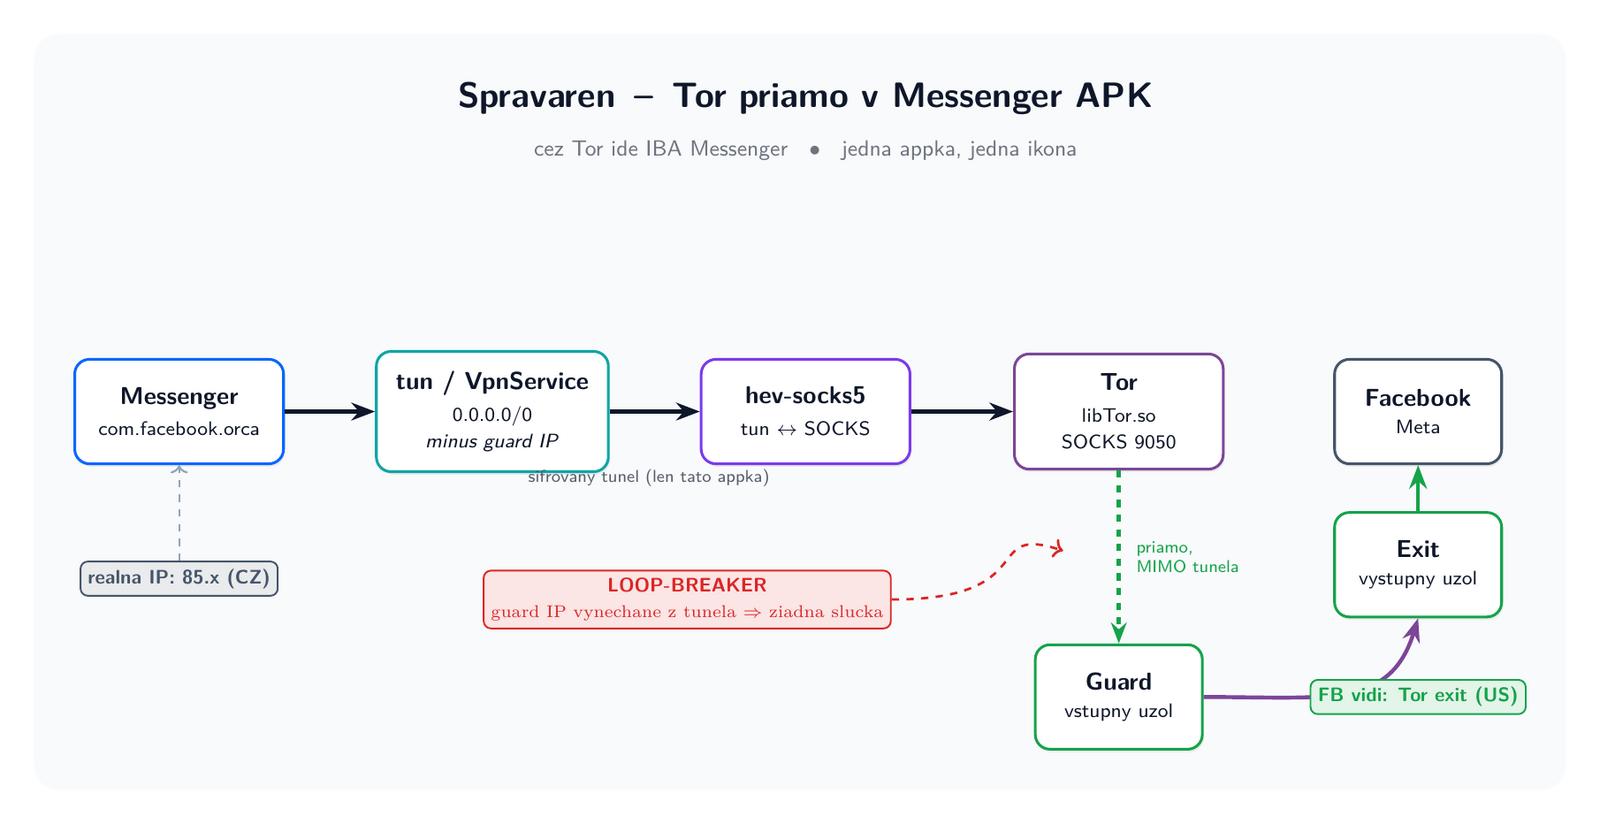
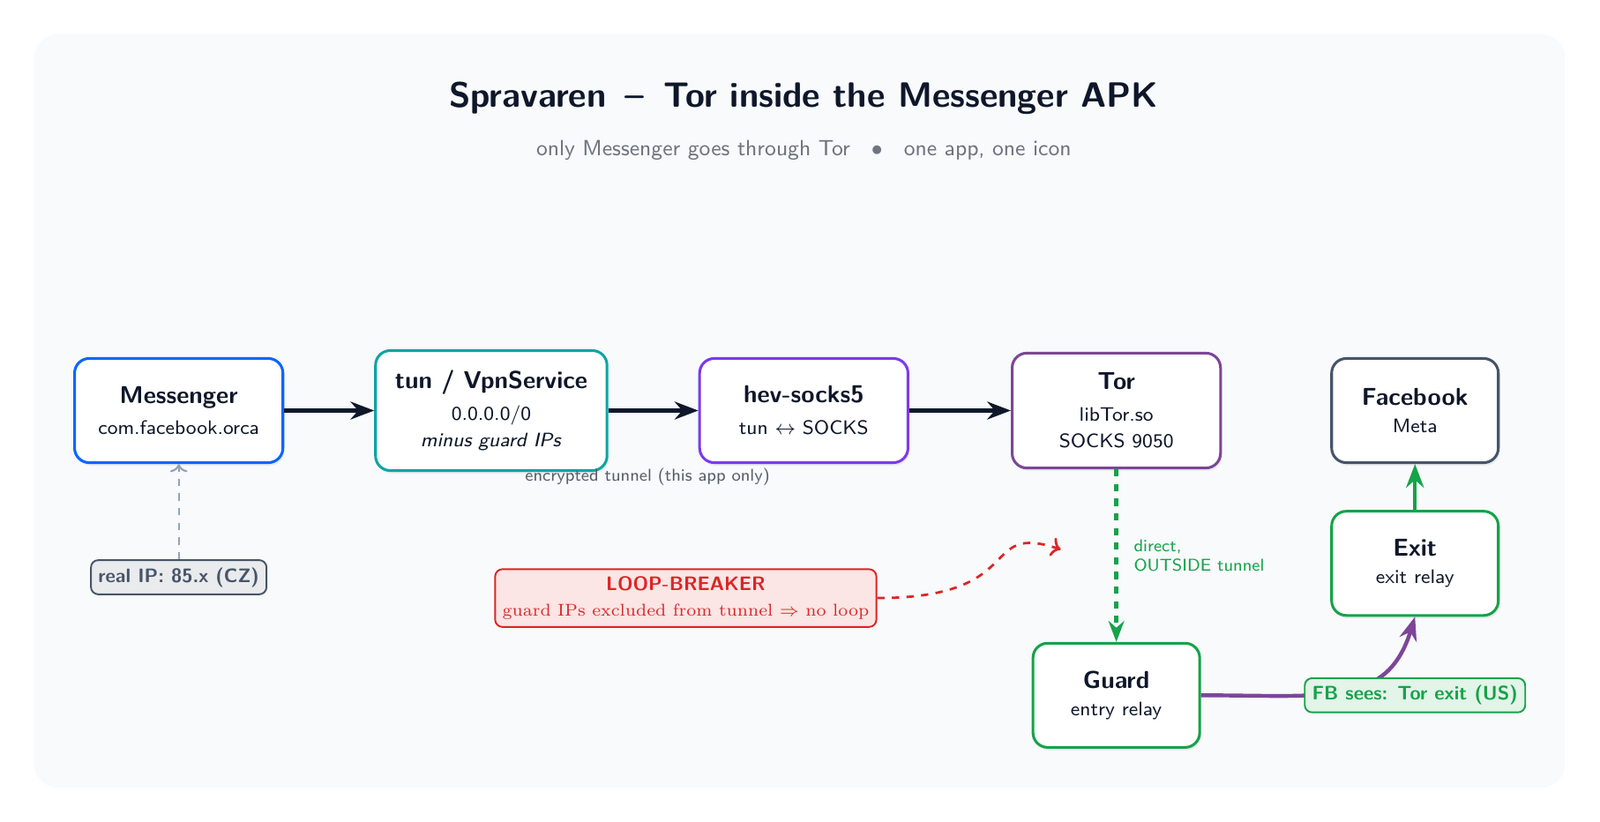
Unify docs into main README (English) + English TikZ diagrams
- Rewrite top-level README.md in English: Part 1 (Tor inside the APK, with
  architecture + battery diagrams, loop-breaker, kill-switch, verified table)
  and Part 2 (slim cut workflow). Nicer layout, tables.
- Translate TikZ diagrams (architecture, lifecycle) to English, recompile PNGs.
- Remove now-redundant tor-inject/README.md.

diff --git a/tor-inject/docs/architecture.tex b/tor-inject/docs/architecture.tex
@@ -30,42 +30,42 @@
 
 % --- title ---
 \node[font=\sffamily\Large\bfseries, text=cInk] (title) at (9,4.5)
-  {Spravaren\, --\, Tor priamo v Messenger APK};
+  {Spravaren\, --\, Tor inside the Messenger APK};
 \node[font=\sffamily\small, text=cInk!60] at (9,3.75)
-  {cez Tor ide IBA Messenger \; $\bullet$ \; jedna appka, jedna ikona};
+  {only Messenger goes through Tor \; $\bullet$ \; one app, one icon};
 
 % --- main pipeline nodes ---
 \node[box=cMsg]  (msg) at (0,0)   {\textbf{Messenger}\\[1pt]\footnotesize com.facebook.orca};
-\node[box=cTun]  (tun) at (4.5,0) {\textbf{tun / VpnService}\\[1pt]\footnotesize 0.0.0.0/0 \\[-1pt]\footnotesize \emph{minus guard IP}};
+\node[box=cTun]  (tun) at (4.5,0) {\textbf{tun / VpnService}\\[1pt]\footnotesize 0.0.0.0/0 \\[-1pt]\footnotesize \emph{minus guard IPs}};
 \node[box=cHev]  (hev) at (9.0,0) {\textbf{hev-socks5}\\[1pt]\footnotesize tun $\leftrightarrow$ SOCKS};
 \node[box=cTor]  (tor) at (13.5,0){\textbf{Tor}\\[1pt]\footnotesize libTor.so \\[-1pt]\footnotesize SOCKS 9050};
 
-\node[box=cRelay, minimum width=24mm] (guard) at (13.5,-4.1) {\textbf{Guard}\\[-1pt]\footnotesize vstupny uzol};
-\node[box=cRelay, minimum width=24mm] (exit)  at (17.8,-2.2) {\textbf{Exit}\\[-1pt]\footnotesize vystupny uzol};
+\node[box=cRelay, minimum width=24mm] (guard) at (13.5,-4.1) {\textbf{Guard}\\[-1pt]\footnotesize entry relay};
+\node[box=cRelay, minimum width=24mm] (exit)  at (17.8,-2.2) {\textbf{Exit}\\[-1pt]\footnotesize exit relay};
 \node[box=cFb,   minimum width=24mm] (fb)    at (17.8,0)    {\textbf{Facebook}\\[-1pt]\footnotesize Meta};
 
-% --- forward flow (appka -> tunel -> Tor) ---
+% --- forward flow (app -> tunnel -> Tor) ---
 \draw[flow] (msg) -- (tun);
 \draw[flow] (tun) -- (hev);
 \draw[flow] (hev) -- (tor);
 
-% --- Tor -> guard: BYPASS tunela (guard IP vynechane) = loop-breaker ---
+% --- Tor -> guard: BYPASS the tunnel (guard IPs excluded) = loop-breaker ---
 \draw[back, line width=1.7pt] (tor.south) -- (guard.north)
-  node[midway, right=3pt, lbl, text=cRelay, align=left]{priamo,\\MIMO tunela};
+  node[midway, right=3pt, lbl, text=cRelay, align=left]{direct,\\OUTSIDE tunnel};
 \draw[flow, draw=cTor] (guard.east) .. controls +(1.8,0) and +(-0.4,-1.3) .. (exit.south);
 \draw[flow, draw=cRelay] (exit) -- (fb);
 
 % --- flow label under tunnel ---
-\node[lbl] at (6.75,-0.95) {sifrovany tunel (len tato appka)};
+\node[lbl] at (6.75,-0.95) {encrypted tunnel (this app only)};
 
 % --- loop-breaker callout ---
 \node[chip=cDanger, align=center] (lb) at (7.3,-2.7)
-  {LOOP-BREAKER\\[1pt]\normalfont\scriptsize guard IP vynechane z tunela $\Rightarrow$ ziadna slucka};
+  {LOOP-BREAKER\\[1pt]\normalfont\scriptsize guard IPs excluded from tunnel $\Rightarrow$ no loop};
 \draw[->, cDanger, line width=1pt, dashed] (lb.east) .. controls +(2.2,0) and +(-1.2,0.4) .. (12.7,-2.0);
 
 % --- IP proof chips ---
-\node[chip=cFb]   (realip) at (0,-2.4) {realna IP: 85.x (CZ)};
-\node[chip=cRelay](torip)  at (17.8,-4.1){FB vidi: Tor exit (US)};
+\node[chip=cFb]   (realip) at (0,-2.4) {real IP: 85.x (CZ)};
+\node[chip=cRelay](torip)  at (17.8,-4.1){FB sees: Tor exit (US)};
 \draw[->, cLine, line width=0.8pt, dashed] (realip) -- (msg);
 
 \begin{scope}[on background layer]

diff --git a/tor-inject/docs/lifecycle.tex b/tor-inject/docs/lifecycle.tex
@@ -15,7 +15,7 @@
 \begin{tikzpicture}[
   font=\sffamily,
   state/.style={rounded corners=8pt, draw=#1, line width=1.2pt, fill=cCard, text=cInk,
-                align=center, inner sep=10pt, minimum width=46mm, minimum height=24mm,
+                align=center, inner sep=10pt, minimum width=48mm, minimum height=24mm,
                 drop shadow={shadow xshift=0.6pt, shadow yshift=-1.2pt, opacity=0.12}},
   arr/.style={-{Stealth[length=3.2mm]}, line width=1.5pt, draw=cInk},
   pill/.style={rounded corners=10pt, fill=#1!14, draw=#1, line width=0.8pt, text=#1,
@@ -24,25 +24,25 @@
 ]
 
 \node[font=\sffamily\Large\bfseries, text=cInk] (t) at (5.5,3.2)
-  {Tor bezi LEN ked treba \; --\; setrenie baterie};
+  {Tor runs only when needed \; --\; battery saving};
 
 % states
 \node[state=cOn]  (on)  at (0,0)
-  {\textbf{\textcolor{cMsg}{Messenger OTVORENY}}\\[3pt]
-   \textcolor{cOn}{\textbf{Tor ON}} $\bullet$ VPN aktivna\\[1pt]
-   \footnotesize traffic ide cez Tor};
+  {\textbf{\textcolor{cMsg}{Messenger OPEN}}\\[3pt]
+   \textcolor{cOn}{\textbf{Tor ON}} $\bullet$ VPN active\\[1pt]
+   \footnotesize traffic via Tor};
 \node[state=cOff] (off) at (11,0)
-  {\textbf{Messenger ZAVRETY}\\[3pt]
-   \textcolor{cOff}{\textbf{Tor OFF}} $\bullet$ ziadna VPN\\[1pt]
-   \footnotesize 0 mA na pozadi};
+  {\textbf{Messenger CLOSED}\\[3pt]
+   \textcolor{cOff}{\textbf{Tor OFF}} $\bullet$ no VPN\\[1pt]
+   \footnotesize 0 mA in background};
 
 % transitions
-\draw[arr] ($(on.east)+(0,0.5)$) -- node[above, note]{zavriet\\ + 25 s odklad} ($(off.west)+(0,0.5)$);
-\draw[arr] ($(off.west)-(0,0.5)$) -- node[below, note]{otvorit Messenger} ($(on.east)-(0,0.5)$);
+\draw[arr] ($(on.east)+(0,0.5)$) -- node[above, note]{close\\ + 25 s delay} ($(off.west)+(0,0.5)$);
+\draw[arr] ($(off.west)-(0,0.5)$) -- node[below, note]{open Messenger} ($(on.east)-(0,0.5)$);
 
 % chips
 \node[pill=cOn]    at (0,-2.4) {Tor idle = 0\% CPU, 94 MB};
-\node[pill=cOff]   at (11,-2.4){po zavreti: ziadny kluc VPN};
+\node[pill=cOff]   at (11,-2.4){after close: no VPN key};
 
 \begin{scope}[on background layer]
   \node[fill=cBg, rounded corners=10pt, fit=(t)(on)(off), inner sep=16pt] {};

diff --git a/README.md b/README.md
@@ -1,76 +1,183 @@
-# messenger-slim
+<div align="center">
 
-Minimal, **local-only** workflow for experimenting with a slimmed Messenger build from your own legally obtained APK.
+# 🧅 messenger-slim · Spravaren
 
-> ⚠ This repository does **not** include Facebook/Meta binaries.
-> - Do not commit APKs, decompiled sources, keys, or proprietary assets.
-> - Use only your own APK copy for local experimentation.
+**A slimmed, privacy-hardened Messenger build from your own legally obtained APK —
+with Tor baked directly into the app.**
 
-## Target version
+Only Messenger goes through Tor. One app, one icon. No Orbot.
 
-- Messenger: `550.0.0.45.63`
-- Platform: Windows (PowerShell)
+</div>
 
-## What this repo contains
+> ⚠ This repository contains **no** Facebook/Meta binaries.
+> Do not commit APKs, decompiled sources, keys, or proprietary assets.
+> Use only your own legally obtained APK copy for local experimentation, on your own device.
 
-- `scripts/prepare-workspace.ps1` – creates local working folders and checks basic tools.
-- `scripts/decompile.ps1` – decompiles your local APK with apktool.
-- `scripts/rebuild-sign.ps1` – rebuilds + signs an APK (debug key by default).
-- `scripts/apply-ai-cuts.ps1` – applies current AI entrypoint cut patch set to local smali.
-- `scripts/apply-nonai-cuts.ps1` – applies non-AI feature cut patch set (Reels/Marketplace/Stories/search extras).
-- `scripts/apply-battery-cuts.ps1` – applies explicit no-op patches for selected non-core background receivers/services.
-- `scripts/apply-chatonly-extreme.ps1` – applies strict chat-only cuts (extra UI entrypoints + non-core background handlers).
-- `config/features-to-disable.json` – your patch intent checklist (Stories, Reels, AI, etc.).
+---
 
-## Prerequisites (install locally)
+## What's inside
 
-- Java 17+
-- `apktool` (or place `apktool.bat` / `apktool.jar` into `tools/`)
-- Android build-tools (`zipalign`, `apksigner`)
+1. **[`tor-inject/`](tor-inject/) — Tor inside the Messenger APK.** Injects a Tor +
+   SOCKS tunnel straight into `com.facebook.orca` so the real Messenger routes itself
+   through Tor. Facebook sees a Tor exit, not your IP.
+2. **`scripts/` — the slim cut workflow.** PowerShell patch sets that no-op Messenger
+   features (Stories, Reels, Marketplace, Meta AI, background services) for a chat-only,
+   low-battery build.
 
-> `zipalign` and `apksigner` are auto-detected from `%LOCALAPPDATA%\Android\Sdk\build-tools\*` if not in PATH.
+---
 
-## Quick start
+# 🧅 Part 1 — Tor inside the APK
 
-1. Put your legally obtained Messenger APK in:
-   - `input/messenger-550.0.0.45.63.apk`
-2. Run:
-   - `./scripts/prepare-workspace.ps1`
-   - `./scripts/verify-apk.ps1`
-   - `./scripts/decompile.ps1`
-3. Perform your local code/resource edits inside `work/decompiled`.
-4. Rebuild and sign:
-   - `./scripts/rebuild-sign.ps1`
-5. Output signed APK:
-   - `output/messenger-550.0.0.45.63-signed.apk`
+![architecture](tor-inject/docs/architecture.png)
 
-## no-res workflow (for problematic APK resources)
+```
+Messenger → tun (VpnService, 0.0.0.0/0 MINUS guard IPs) → hev-socks5-tunnel
+         → Tor SOCKS 127.0.0.1:9050 → guard (direct) → exit → Facebook
+```
 
-If regular resource rebuild fails on this APK source, use `work/decompiled_nres` and apply the patch set there:
+- **Hook without editing Messenger smali:** an injected `<provider>` (`TorBootProvider`)
+  runs at process start and registers a `LifecycleWatcher`.
+- **DNS through Tor:** hev `mapdns` (SOCKS resolve-by-name) — no Tor UDP needed.
 
-- `./scripts/apply-ai-cuts.ps1`
-- `./scripts/apply-ai-cuts.ps1 -Level core`
-- `./scripts/apply-ai-cuts.ps1 -Level extended`
-- `./scripts/apply-ai-cuts.ps1 -Level aggressive`
-- `./scripts/apply-nonai-cuts.ps1 -Level core`
-- `./scripts/apply-nonai-cuts.ps1 -Level extended`
-- `./scripts/apply-nonai-cuts.ps1 -Level aggressive`
-- `./scripts/apply-battery-cuts.ps1`
-- `./scripts/apply-chatonly-extreme.ps1`
+### 🔑 Loop-breaker — why it works at all
 
-Then rebuild/sign from `work/decompiled_nres` (same local-only policy).
+Tor runs under the **same UID** as Messenger. If the tunnel captured *everything*, it
+would capture Tor's own traffic too → infinite loop. Fix: Tor bootstraps first, its
+**guard-node IPs** are read via the **ControlPort**, and those IPs are **excluded from
+the tunnel routes** (`RouteUtil.allExcept`). Tor's traffic to the guard goes direct;
+Messenger goes through the tunnel. `ClientUseIPv6 0` keeps guards on IPv4, so IPv6 is
+routed entirely into the tunnel.
 
-## APK source note
+### 🛡 Kill-switch (fail-closed)
 
-- Do not use random third-party APK websites.
-- Use only a legally obtained copy (e.g., from your own device backup/export).
+So not a single packet escapes Tor at startup:
 
-## Safety and legal notes
+- On start the tunnel is built **immediately**, excluding the **last-known guards**
+  (cache `guards.txt`) → Messenger **has no network until Tor is up**. No startup leak.
+- **Fallback:** if bootstrap stalls (new guard / stale consensus), the network opens
+  briefly so Tor can finish, then the tunnel is rebuilt.
+- **Watchdog:** if Tor dies mid-session → Messenger is **blackholed** (loses network),
+  never leaks.
 
-- Never upload patched APKs to GitHub.
-- Keep all modification output local.
-- Test on your own device only.
+### 🔋 Battery — Tor runs only when needed
 
-## Suggested next step
+![lifecycle](tor-inject/docs/lifecycle.png)
 
-Start with low-risk UI hiding and feature entry-point disabling defined in `config/features-to-disable.json`, then iterate per release.
+`LifecycleWatcher` turns Tor on only while Messenger is in the **foreground** and off
+~25 s after it goes to the **background**.
+
+| | Tor always on | **Tor only when needed** (this build) |
+|---|---|---|
+| Background drain | constant (VPN + Tor) | **zero** — Tor OFF |
+| Tor idle | 0% CPU, 94 MB | 0% CPU, 94 MB (only while in use) |
+| Background notifications | yes | no (push rides the tunnel) |
+
+> Trade-off: because Tor stops on close, messages arrive only once you open Messenger.
+
+### 🧩 Injected components
+
+| File | Role |
+|---|---|
+| `OrcaTorVpnService` | VpnService: guard-excluded tunnel, kill-switch, watchdog |
+| `TorController` | starts `libTor.so`, async bootstrap, guard IPs via ControlPort, guard cache |
+| `RouteUtil` | `0.0.0.0/0` MINUS guard IPs (loop-breaker) |
+| `LifecycleWatcher` | Tor ON in foreground / OFF in background (battery) |
+| `TorBootProvider` | startup hook inside Messenger (no second launcher) |
+| `ConsentActivity` | one-time VPN consent |
+| `hev/htproxy/TProxyService` | JNI class for `libhev-socks5-tunnel.so` |
+
+**Native libraries** (not in git — fetched/built by `build.sh`): `libTor.so`
+(tor-expert-bundle), `libhev-socks5-tunnel.so` (NDK build of
+[hev-socks5-tunnel](https://github.com/heiher/hev-socks5-tunnel)).
+
+### ✅ Verified on device (Pixel 9a)
+
+| | IP | Location |
+|---|---|---|
+| **Real network** (no Tor) | `[redacted-ip]` | [redacted-location] |
+| **What Facebook sees** | `[redacted-ip]` (IsTor:true) | New York, USA |
+
+Messenger connects **only to `127.0.0.1:9050` (Tor)** — no direct Facebook connections.
+Meta sees the Tor exit, not you.
+
+**Check it yourself:** a browser at `check.torproject.org` shows *"not Tor"* (correct —
+the phone isn't on Tor, only Messenger). Or FB → *Settings → Where you're logged in* →
+shows the Tor exit's country.
+
+### 🔨 Build (Linux, arm64-v8a)
+
+See [`tor-inject/build.sh`](tor-inject/build.sh). Needs JDK 17, Android SDK
+(build-tools + platform-35), NDK, [APKEditor](https://github.com/REAndroid/APKEditor):
+
+1. `APKEditor d -dex` decompiles the APK (raw dex; sidesteps the apktool aapt2 bug).
+2. `javac` + `d8` → `classes14.dex` from `tor-inject/src/`.
+3. Add `classes14.dex` + `libTor.so` + `libhev-socks5-tunnel.so`; insert
+   `tor-inject/manifest-inject.xml` before `</application>`.
+4. `APKEditor b` → `zipalign` → `apksigner` (debug keystore).
+
+Diagrams: `tor-inject/docs/*.tex` (TikZ) → `lualatex` → `*.png`.
+
+### 📲 Install
+
+```bash
+adb uninstall com.facebook.orca        # FIRST time: re-sign ≠ FB signature → login is lost
+adb install --no-incremental orca-tor-signed.apk
+adb shell appops set com.facebook.orca ACTIVATE_VPN allow   # pre-grant VPN consent
+```
+
+Later updates with the same debug key: `adb install -r ...` (login preserved).
+
+### ⚠ Known limitation
+
+Facebook **blocks Tor exit nodes** — login/connect through some exits fails
+(*"unable to log in"*). Retry, or pin an exit: `ExitNodes {us}` in `torrc`. This is
+Meta's policy, not a bug in the injection.
+
+---
+
+# ✂ Part 2 — The slim cut workflow
+
+Local-only PowerShell workflow that patches a slimmed Messenger build from your own APK.
+
+- **Target:** Messenger `550.0.0.45.63` · Platform: Windows (PowerShell)
+
+### Scripts
+
+| Script | Purpose |
+|---|---|
+| `scripts/prepare-workspace.ps1` | create working folders, check tools |
+| `scripts/decompile.ps1` | decompile your local APK with apktool |
+| `scripts/apply-ai-cuts.ps1` | no-op AI entrypoints |
+| `scripts/apply-nonai-cuts.ps1` | no-op Reels / Marketplace / Stories / search extras |
+| `scripts/apply-battery-cuts.ps1` | no-op non-core background receivers/services |
+| `scripts/apply-chatonly-extreme.ps1` | strict chat-only cuts |
+| `scripts/rebuild-sign.ps1` | rebuild + sign (debug key by default) |
+| `config/features-to-disable.json` | patch-intent checklist |
+
+### Prerequisites
+
+Java 17+, `apktool` (or `tools/apktool.jar`), Android build-tools (`zipalign`,
+`apksigner`). `zipalign`/`apksigner` are auto-detected from
+`%LOCALAPPDATA%\Android\Sdk\build-tools\*` if not on PATH.
+
+### Quick start
+
+1. Put your legally obtained APK in `input/messenger-550.0.0.45.63.apk`.
+2. `./scripts/prepare-workspace.ps1` → `./scripts/verify-apk.ps1` → `./scripts/decompile.ps1`
+3. Edit code/resources in `work/decompiled`.
+4. `./scripts/rebuild-sign.ps1` → `output/messenger-550.0.0.45.63-signed.apk`
+
+### no-res workflow (for problematic APK resources)
+
+If a regular resource rebuild fails on this APK, work in `work/decompiled_nres` and apply
+the patch set there (`apply-ai-cuts.ps1 -Level core|extended|aggressive`,
+`apply-nonai-cuts.ps1 -Level …`, `apply-battery-cuts.ps1`, `apply-chatonly-extreme.ps1`),
+then rebuild/sign from `work/decompiled_nres`.
+
+---
+
+## Safety & legal
+
+- Never upload patched APKs or Meta binaries to GitHub.
+- Keep all modification output local; test on your own device only.
+- Use only a legally obtained APK copy (e.g. your own device backup/export).
